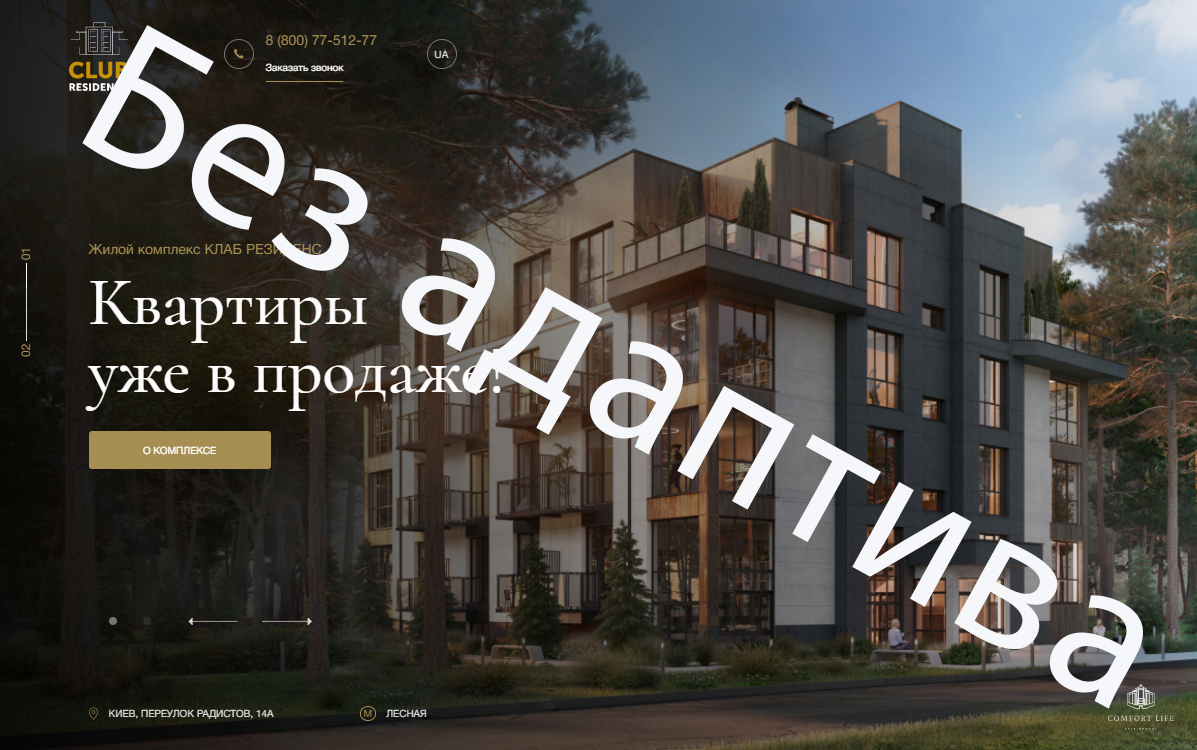
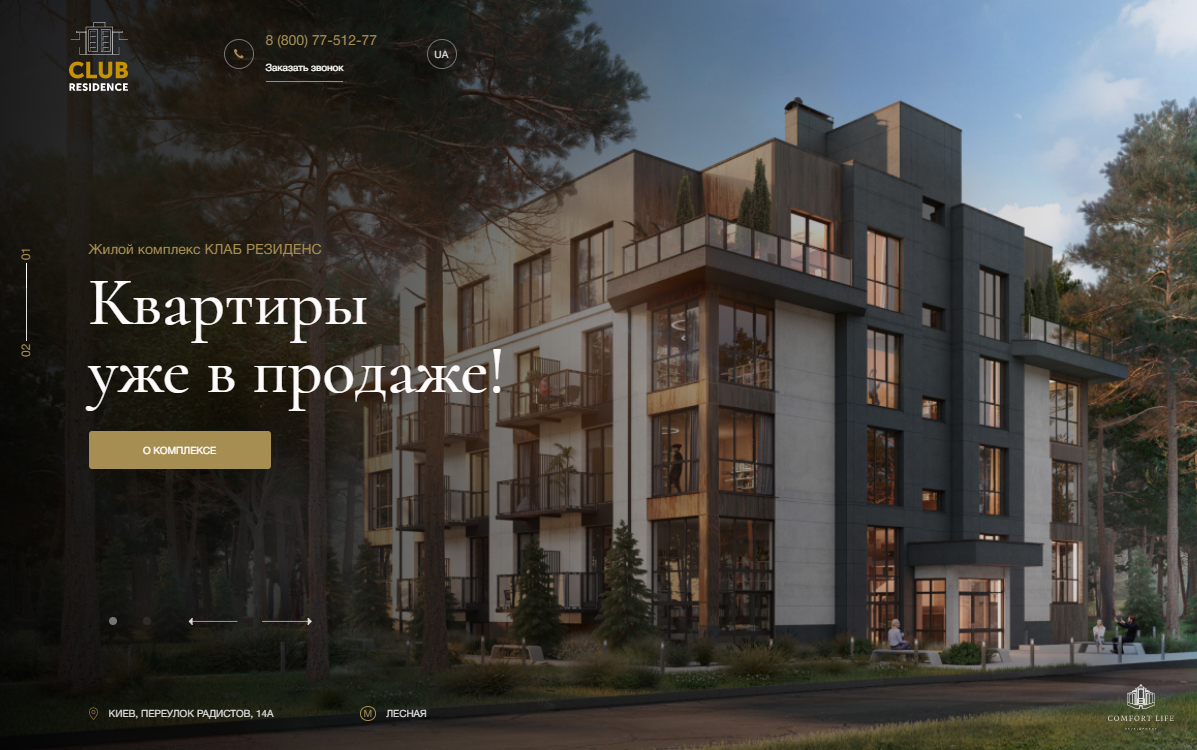
cahnge label  without adaptive

Changed region(s): [[0.3091, 0.3067, 0.9582, 0.9507], [0.0618, 0.0307, 0.3091, 0.368]]

diff --git a/css/style.min.css b/css/style.min.css
@@ -1,1 +1,1 @@
-html{-webkit-box-sizing:border-box;box-sizing:border-box}*,*::before,*::after{-webkit-box-sizing:inherit;box-sizing:inherit}a{display:inline-block;text-decoration:none;color:inherit}ul,li{margin:0;padding:0;list-style:none}body{font-family:'Roboto', sans-serif;font-weight:400;font-size:14px;line-height:25px;color:#fff;max-height:0}p{-webkit-margin-before:0;margin-block-start:0;-webkit-margin-after:0;margin-block-end:0}*{margin:0;padding:0}.container{max-width:1170px;margin:0 auto;padding:0 15px}.height__bg{height:calc(100vh - 101px)}.wrapper__bg-b{background:#45484d;background:-o-linear-gradient(315deg, #45484d 0%, #000 100%);background:linear-gradient(135deg, #45484d 0%, #000 100%);filter:progid:DXImageTransform.Microsoft.gradient( startColorstr='#45484d', endColorstr='#000000',GradientType=1 )}.wrapper__bg-wbw{min-height:580px;background:#fff;background:-webkit-gradient(linear, left top, left bottom, from(#fff), color-stop(30%, #eee), color-stop(60%, #eee), to(#fff));background:-o-linear-gradient(top, #fff 0%, #eee 30%, #eee 60%, #fff 100%);background:linear-gradient(to bottom, #fff 0%, #eee 30%, #eee 60%, #fff 100%);filter:progid:DXImageTransform.Microsoft.gradient( startColorstr='#ffffff', endColorstr='#ffffff',GradientType=0 )}.header__top{display:-webkit-box;display:-ms-flexbox;display:flex;-webkit-box-pack:justify;-ms-flex-pack:justify;justify-content:space-between;-ms-flex-wrap:wrap;flex-wrap:wrap}.header__logo{margin-top:20px;margin-right:15px}.header__logo img{width:100px;height:14px}.menu{margin-top:10px;display:-webkit-box;display:-ms-flexbox;display:flex;height:50px;-webkit-box-pack:end;-ms-flex-pack:end;justify-content:flex-end}.menu a{font-size:16px;font-weight:300;line-height:50px;font-weight:300;color:#fff;z-index:2;position:relative}.menu a:hover::before{width:100%;opacity:1}.menu a::before{content:'';position:absolute;height:2px;background-color:gray;opacity:0;width:0;-webkit-transition:all .5s;-o-transition:all .5s;transition:all .5s;bottom:0;left:0}.menu a+a{margin-left:15px}.btn-menu{display:none}.header__inner{text-align:center;color:#fff}.header__title{margin-top:240px;font-size:60px;line-height:60px;font-weight:800}.header__text{margin:0 auto;margin-top:90px;font-size:50px;line-height:45px}.header__text span{display:block}@-webkit-keyframes white-line{from{height:800px;top:-800px}0%{height:800px;top:-800px}100%{height:800px;top:-800px}to{height:200px;top:-200px}}@keyframes white-line{from{height:800px;top:-800px}0%{height:800px;top:-800px}100%{height:800px;top:-800px}to{height:200px;top:-200px}}@-webkit-keyframes width-anim{from{width:0}0%{width:0}100%{width:100%}to{width:100%}}@keyframes width-anim{from{width:0}0%{width:0}100%{width:100%}to{width:100%}}.skills{height:0}.white-line-img{position:relative}.white-line-img::before{content:"";position:absolute;background-image:url(../images/White-line-big.png);background-repeat:repeat-x;top:-200px;left:0;z-index:1;width:100%;height:200px;-webkit-animation:white-line 3s;animation:white-line 3s}.white-line-img::after{content:"";position:absolute;background-image:url(../images/White-line-mirror.png);background-repeat:repeat-x;bottom:-300px;left:0;z-index:1;width:100%;height:300px}.summary{padding:10px 0;display:-webkit-box;display:-ms-flexbox;display:flex;-webkit-box-pack:center;-ms-flex-pack:center;justify-content:center;font-size:24px;line-height:80px;-webkit-transition:all 0.5s;-o-transition:all 0.5s;transition:all 0.5s;position:absolute;top:0;left:0;right:0;z-index:1}.summary a+a{margin-left:30px}.btn-summary{text-align:center;position:relative;display:block;overflow:hidden;width:100%;height:80px;max-width:250px;text-transform:uppercase;border:1px solid currentColor}.btn-summary{-webkit-box-shadow:0px 0px 10px 0px rgba(0,0,0,0.75);box-shadow:0px 0px 10px 0px rgba(0,0,0,0.75);color:#000}.btn-summary span{position:absolute;display:block;width:0;height:0;border-radius:50%;background-color:#000;-webkit-transition:width 0.4s ease-in-out, height 0.4s ease-in-out;-o-transition:width 0.4s ease-in-out, height 0.4s ease-in-out;transition:width 0.4s ease-in-out, height 0.4s ease-in-out;-webkit-transform:translate(-50%, -50%);-ms-transform:translate(-50%, -50%);transform:translate(-50%, -50%);z-index:-1}.btn-summary:hover{color:#fff}.btn-summary:hover span{width:225%;height:562.5px}.btn-summaryr:active{background-color:#000}.tec__inner{padding-top:160px}.tec__item{display:-webkit-box !important;display:-ms-flexbox !important;display:flex !important;-webkit-box-pack:justify;-ms-flex-pack:justify;justify-content:space-between;max-width:880px;margin-bottom:20px;min-width:200px}.tec__tags{-ms-flex-item-align:center;align-self:center;display:-webkit-box;display:-ms-flexbox;display:flex;font-size:24px;text-align:center;line-height:100px;margin-right:20px}.tec__tags .tec__tag{width:100px;height:100px;border-radius:15px}.tec__tags .tec__tag:first-child{margin-right:-15px}.tec__tags .tec__tag:last-child{margin-top:20px;margin-left:-15px}.tec__tags-hc .tec__tag-h{background:rgba(241,101,41,0.8);background:-o-linear-gradient(45deg, rgba(241,101,41,0.8) 0%, rgba(241,101,41,0.8) 62%, rgba(229,229,229,0.8) 100%);background:linear-gradient(45deg, rgba(241,101,41,0.8) 0%, rgba(241,101,41,0.8) 62%, rgba(229,229,229,0.8) 100%);filter:progid:DXImageTransform.Microsoft.gradient( startColorstr='#f16529', endColorstr='#e5e5e5',GradientType=1 )}.tec__tags-hc .tec__tag-c{background:rgba(64,154,214,0.8);background:-o-linear-gradient(45deg, rgba(64,154,214,0.8) 0%, rgba(64,154,214,0.8) 62%, #e5e5e5 100%);background:linear-gradient(45deg, rgba(64,154,214,0.8) 0%, rgba(64,154,214,0.8) 62%, #e5e5e5 100%);filter:progid:DXImageTransform.Microsoft.gradient( startColorstr='#409ad6', endColorstr='#e5e5e5',GradientType=1 )}.tec__tags-sg .tec__tag-s{background:rgba(205,102,154,0.8);background:-o-linear-gradient(45deg, rgba(205,102,154,0.8) 0%, rgba(205,102,154,0.8) 62%, rgba(229,229,229,0.8) 100%);background:linear-gradient(45deg, rgba(205,102,154,0.8) 0%, rgba(205,102,154,0.8) 62%, rgba(229,229,229,0.8) 100%);filter:progid:DXImageTransform.Microsoft.gradient( startColorstr='#cd669a', endColorstr='#e5e5e5',GradientType=1 )}.tec__tags-sg .tec__tag-g{background:rgba(235,74,75,0.8);background:-o-linear-gradient(45deg, rgba(235,74,75,0.8) 0%, rgba(235,74,75,0.8) 62%, rgba(229,229,229,0.8) 100%);background:linear-gradient(45deg, rgba(235,74,75,0.8) 0%, rgba(235,74,75,0.8) 62%, rgba(229,229,229,0.8) 100%);filter:progid:DXImageTransform.Microsoft.gradient( startColorstr='#eb4a4b', endColorstr='#e5e5e5',GradientType=1 )}.tec__tags-jq .tec__tag-j{background:rgba(255,218,62,0.8);background:-o-linear-gradient(45deg, rgba(255,218,62,0.8) 0%, rgba(255,218,62,0.8) 62%, rgba(229,229,229,0.8) 100%);background:linear-gradient(45deg, rgba(255,218,62,0.8) 0%, rgba(255,218,62,0.8) 62%, rgba(229,229,229,0.8) 100%);filter:progid:DXImageTransform.Microsoft.gradient( startColorstr='#ffda3e', endColorstr='#e5e5e5',GradientType=1 )}.tec__tags-jq .tec__tag-q{background:rgba(17,105,174,0.8);background:-o-linear-gradient(45deg, rgba(17,105,174,0.8) 0%, rgba(17,105,174,0.8) 62%, rgba(229,229,229,0.8) 100%);background:linear-gradient(45deg, rgba(17,105,174,0.8) 0%, rgba(17,105,174,0.8) 62%, rgba(229,229,229,0.8) 100%);filter:progid:DXImageTransform.Microsoft.gradient( startColorstr='#1169ae', endColorstr='#e5e5e5',GradientType=1 )}.tec__text{-ms-flex-item-align:center;align-self:center;background-color:#fff;border-radius:15px;color:#000;padding:20px;font-size:17px}.skills__inner{position:relative;min-height:190px}.skills__inner::after{content:"";background-image:url(../images/code_brain.png);background-repeat:no-repeat;background-size:contain;max-width:164px;width:100%;height:195px;position:absolute;top:-5px;right:40px;opacity:.8}.skills__item{margin-left:auto;margin-right:260px;max-width:600px;color:#000;font-size:18px;text-transform:uppercase;margin-bottom:20px}.skills__line{width:100%;height:17px;background-color:#fff;border-radius:15px;border:1px solid #000;text-align:right}.skills__line-htmlcss,.skills__line-sassgulp,.skills__line-jsjq{border-radius:15px;position:relative;border:2px solid #fff;height:15px;-webkit-animation:width-anim 5s;animation:width-anim 5s}.skills__line-htmlcss{max-width:84%;background:rgba(241,101,41,0.8);background:-o-linear-gradient(45deg, rgba(241,101,41,0.8) 0%, rgba(64,154,214,0.8) 100%);background:linear-gradient(45deg, rgba(241,101,41,0.8) 0%, rgba(64,154,214,0.8) 100%);filter:progid:DXImageTransform.Microsoft.gradient( startColorstr='#f16529', endColorstr='#409ad6',GradientType=1 )}.skills__line-sassgulp{max-width:68%;background:#cd669a;background:-o-linear-gradient(45deg, #cd669a 0%, #eb4a4b 100%);background:linear-gradient(45deg, #cd669a 0%, #eb4a4b 100%);filter:progid:DXImageTransform.Microsoft.gradient( startColorstr='#cd669a', endColorstr='#eb4a4b',GradientType=1 )}.skills__line-jsjq{max-width:36%;background:#ffda3e;background:-o-linear-gradient(45deg, #ffda3e 0%, #1169ae 100%);background:linear-gradient(45deg, #ffda3e 0%, #1169ae 100%);filter:progid:DXImageTransform.Microsoft.gradient( startColorstr='#ffda3e', endColorstr='#1169ae',GradientType=1 )}.wrapper-portfolio{padding-top:350px}.portfolio__title{text-align:center;font-size:40px;line-height:45px;color:#fff;font-weight:700;padding-top:100px;padding-bottom:40px}.portfolio__inner{display:-webkit-box;display:-ms-flexbox;display:flex;-ms-flex-wrap:wrap;flex-wrap:wrap;-webkit-box-pack:center;-ms-flex-pack:center;justify-content:center;padding-bottom:250px}.portfolio__item{padding:10px;-webkit-transition:all .5s;-o-transition:all .5s;transition:all .5s}.portfolio__item:hover{-webkit-transform:scale(1.1);-ms-transform:scale(1.1);transform:scale(1.1)}.portfolio__item-link{border:1px solid #000;border-radius:5px;padding:20px 20px 12px;background-color:#fff}.portfolio__item-link img{-webkit-box-shadow:0px 0px 14px 3px rgba(0,0,0,0.75);box-shadow:0px 0px 14px 3px rgba(0,0,0,0.75);width:300px;height:200px}.footer{position:relative}.footer::after{content:"";position:absolute;background-image:url(../images/White-line-big.png);background-repeat:repeat-x;top:-200px;left:0;z-index:1;width:100%;height:200px}.wrapper__bg-wb{background:#fff;background:-webkit-gradient(linear, left top, left bottom, from(#fff), to(#b4b4b4));background:-o-linear-gradient(top, #fff 0%, #b4b4b4 100%);background:linear-gradient(to bottom, #fff 0%, #b4b4b4 100%);filter:progid:DXImageTransform.Microsoft.gradient( startColorstr='#ffffff', endColorstr='#000000',GradientType=0 )}.links__inner{display:-webkit-box;display:-ms-flexbox;display:flex;-webkit-box-pack:justify;-ms-flex-pack:justify;justify-content:space-between;-webkit-box-align:end;-ms-flex-align:end;align-items:flex-end;height:120px}.wrap__link-pm{text-align:right}.wrap__link-pm a{display:block;font-size:18px;margin-top:5px;margin-bottom:5px;-webkit-transition:all .3s;-o-transition:all .3s;transition:all .3s;color:#000}.wrap__link-pm a:hover{color:#fff;-webkit-transform:scale(1.1);-ms-transform:scale(1.1);transform:scale(1.1)}.link-social{width:50px;height:50px;background-size:cover;background-position:center;background-repeat:no-repeat;border:1px solid #fff;-webkit-transition:all .3s;-o-transition:all .3s;transition:all .3s;position:relative}.link-social+.link-social{margin-left:15px}.link-social:hover{-webkit-transform:scale(1.1);-ms-transform:scale(1.1);transform:scale(1.1)}.link-social:hover span{background-color:rgba(0,0,0,0)}.link-social span{position:absolute;top:0;left:0;background-color:rgba(0,0,0,0.4);width:50px;height:50px}.link-instagram{border-radius:10px}.link-instagram span{border-radius:10px}.link-telegram{border-radius:50%}.link-telegram span{border-radius:50%}.link-facebook{border-radius:5px}.link-facebook span{border-radius:5px}.details-rezume__wrapper{font-size:18px}.details-rezume__skills,.details-rezume__courses,.details-rezume__education,.details-rezume__languages,.details-rezume__Information{font-weight:700;text-transform:uppercase;text-align:center;margin-bottom:15px;background-color:#fff;color:#000;padding:10px;border-radius:15px}.details-rezume__skills li,.details-rezume__courses li,.details-rezume__education li,.details-rezume__languages li,.details-rezume__Information li{text-transform:none;font-weight:300;text-align:left;position:relative;padding-left:8px;line-height:25px}.details-rezume__skills li::before,.details-rezume__courses li::before,.details-rezume__education li::before,.details-rezume__languages li::before,.details-rezume__Information li::before{position:absolute;content:"";top:12px;left:0;width:4px;height:2px;background-color:#000}.details-rezume__skills li:first-child,.details-rezume__courses li:first-child,.details-rezume__education li:first-child,.details-rezume__languages li:first-child,.details-rezume__Information li:first-child{margin-top:3px}.details-rezume__title{text-align:center;text-transform:uppercase;font-weight:700;margin:15px 0}.details-rezume__Information span{text-transform:none;font-weight:300;padding:10px;display:block;text-align:left}.mfp-close-btn-in .mfp-close{color:#fff}.mfp-close{font-size:35px}@media (max-width: 1200px){.height__bg{height:calc(100vh)}}@media (max-width: 600px){.header__title{margin-top:180px;font-size:50px;line-height:50px}.header__text{margin-top:75px;font-size:35px;line-height:40px}.summary{-webkit-box-orient:vertical;-webkit-box-direction:normal;-ms-flex-direction:column;flex-direction:column}.summary a+a{margin-left:0}.btn-summary{margin-top:10px;margin-bottom:10px;-ms-flex-item-align:center;align-self:center}.tec__inner{padding-top:260px}.tec__item{-webkit-box-orient:vertical;-webkit-box-direction:normal;-ms-flex-direction:column;flex-direction:column}.tec__text{margin-top:20px}.details-rezume__wrapper{font-size:3vw}}@media (max-width: 520px){.menu{margin-top:0;padding-top:10px;display:none;position:absolute;background-color:rgba(0,0,0,0.8);height:219px;width:100%;top:0;left:0;right:0}.menu a{display:block;text-align:center}.menu a+a{margin-left:0}.btn-menu{display:block;height:26px;width:30px;cursor:pointer;position:absolute;top:20px;right:10px;z-index:10}.btn-menu::before{top:0}.btn-menu::after{bottom:0}.btn-menu::before,.btn-menu::after{content:"";position:absolute;-webkit-transition:all 0.3s cubic-bezier(0.68, -0.55, 0.27, 1.55);-o-transition:all 0.3s cubic-bezier(0.68, -0.55, 0.27, 1.55);transition:all 0.3s cubic-bezier(0.68, -0.55, 0.27, 1.55);right:0;height:2px;width:30px;background-color:#fff}.btn-menu span{height:2px;width:30px;background-color:#fff;position:absolute;top:calc(50% - 1px)}.btn-menu.active::before{top:12px;-webkit-transform:rotate(45deg);-ms-transform:rotate(45deg);transform:rotate(45deg)}.btn-menu.active span{-webkit-transform:scale(0);-ms-transform:scale(0);transform:scale(0)}.btn-menu.active::after{bottom:12px;-webkit-transform:rotate(-45deg);-ms-transform:rotate(-45deg);transform:rotate(-45deg)}.link-social+.link-social{margin-left:10px}.skills__item{margin-right:0}.skills__inner::after{right:15px;opacity:0.1}}@media (max-width: 420px){.header__title{font-size:43px}.header__text{font-size:28px;line-height:40px}.links__inner{-webkit-box-orient:vertical;-webkit-box-direction:normal;-ms-flex-direction:column;flex-direction:column;-webkit-box-align:center;-ms-flex-align:center;align-items:center;height:130px}.portfolio__item-link img{width:230px;height:160px}}@media (max-width: 320px){.header__title{font-size:30px}.header__text{font-size:23px;line-height:39px;margin-top:60px}}@media (min-width: 521px){.menu{display:-webkit-box !important;display:-ms-flexbox !important;display:flex !important}}
+html{-webkit-box-sizing:border-box;box-sizing:border-box}*,*::before,*::after{-webkit-box-sizing:inherit;box-sizing:inherit}a{display:inline-block;text-decoration:none;color:inherit}ul,li{margin:0;padding:0;list-style:none}body{font-family:'Roboto', sans-serif;font-weight:400;font-size:14px;line-height:25px;color:#fff;max-height:0}p{-webkit-margin-before:0;margin-block-start:0;-webkit-margin-after:0;margin-block-end:0}*{margin:0;padding:0}.container{max-width:1170px;margin:0 auto;padding:0 15px}.height__bg{height:calc(100vh - 101px)}.wrapper__bg-b{background:#45484d;background:-o-linear-gradient(315deg, #45484d 0%, #000 100%);background:linear-gradient(135deg, #45484d 0%, #000 100%);filter:progid:DXImageTransform.Microsoft.gradient( startColorstr='#45484d', endColorstr='#000000',GradientType=1 )}.wrapper__bg-wbw{min-height:580px;background:#fff;background:-webkit-gradient(linear, left top, left bottom, from(#fff), color-stop(30%, #eee), color-stop(60%, #eee), to(#fff));background:-o-linear-gradient(top, #fff 0%, #eee 30%, #eee 60%, #fff 100%);background:linear-gradient(to bottom, #fff 0%, #eee 30%, #eee 60%, #fff 100%);filter:progid:DXImageTransform.Microsoft.gradient( startColorstr='#ffffff', endColorstr='#ffffff',GradientType=0 )}.header__top{display:-webkit-box;display:-ms-flexbox;display:flex;-webkit-box-pack:justify;-ms-flex-pack:justify;justify-content:space-between;-ms-flex-wrap:wrap;flex-wrap:wrap}.header__logo{margin-top:20px;margin-right:15px}.header__logo img{width:100px;height:14px}.menu{margin-top:10px;display:-webkit-box;display:-ms-flexbox;display:flex;height:50px;-webkit-box-pack:end;-ms-flex-pack:end;justify-content:flex-end}.menu a{font-size:16px;font-weight:300;line-height:50px;font-weight:300;color:#fff;z-index:2;position:relative}.menu a:hover::before{width:100%;opacity:1}.menu a::before{content:"";position:absolute;height:2px;background-color:gray;opacity:0;width:0;-webkit-transition:all 0.5s;-o-transition:all 0.5s;transition:all 0.5s;bottom:0;left:0}.menu a+a{margin-left:15px}.btn-menu{display:none}.header__inner{text-align:center;color:#fff}.header__title{margin-top:240px;font-size:60px;line-height:60px;font-weight:800}.header__text{margin:0 auto;margin-top:90px;font-size:50px;line-height:45px}.header__text span{display:block}@-webkit-keyframes white-line{from{height:800px;top:-800px}0%{height:800px;top:-800px}100%{height:800px;top:-800px}to{height:200px;top:-200px}}@keyframes white-line{from{height:800px;top:-800px}0%{height:800px;top:-800px}100%{height:800px;top:-800px}to{height:200px;top:-200px}}@-webkit-keyframes width-anim{from{width:0}0%{width:0}100%{width:100%}to{width:100%}}@keyframes width-anim{from{width:0}0%{width:0}100%{width:100%}to{width:100%}}.skills{height:0}.white-line-img{position:relative}.white-line-img::before{content:"";position:absolute;background-image:url(../images/White-line-big.png);background-repeat:repeat-x;top:-200px;left:0;z-index:1;width:100%;height:200px;-webkit-animation:white-line 3s;animation:white-line 3s}.white-line-img::after{content:"";position:absolute;background-image:url(../images/White-line-mirror.png);background-repeat:repeat-x;bottom:-300px;left:0;z-index:1;width:100%;height:300px}.summary{padding:10px 0;display:-webkit-box;display:-ms-flexbox;display:flex;-webkit-box-pack:center;-ms-flex-pack:center;justify-content:center;font-size:24px;line-height:80px;-webkit-transition:all 0.5s;-o-transition:all 0.5s;transition:all 0.5s;position:absolute;top:0;left:0;right:0;z-index:1}.summary a+a{margin-left:30px}.btn-summary{text-align:center;position:relative;display:block;overflow:hidden;width:100%;height:80px;max-width:250px;text-transform:uppercase;border:1px solid currentColor}.btn-summary{-webkit-box-shadow:0px 0px 10px 0px rgba(0,0,0,0.75);box-shadow:0px 0px 10px 0px rgba(0,0,0,0.75);color:#000}.btn-summary span{position:absolute;display:block;width:0;height:0;border-radius:50%;background-color:#000;-webkit-transition:width 0.4s ease-in-out, height 0.4s ease-in-out;-o-transition:width 0.4s ease-in-out, height 0.4s ease-in-out;transition:width 0.4s ease-in-out, height 0.4s ease-in-out;-webkit-transform:translate(-50%, -50%);-ms-transform:translate(-50%, -50%);transform:translate(-50%, -50%);z-index:-1}.btn-summary:hover{color:#fff}.btn-summary:hover span{width:225%;height:562.5px}.btn-summaryr:active{background-color:#000}.tec__inner{padding-top:160px}.tec__item{display:-webkit-box !important;display:-ms-flexbox !important;display:flex !important;-webkit-box-pack:justify;-ms-flex-pack:justify;justify-content:space-between;max-width:880px;margin-bottom:20px;min-width:200px}.tec__tags{-ms-flex-item-align:center;align-self:center;display:-webkit-box;display:-ms-flexbox;display:flex;font-size:24px;text-align:center;line-height:100px;margin-right:20px}.tec__tags .tec__tag{width:100px;height:100px;border-radius:15px}.tec__tags .tec__tag:first-child{margin-right:-15px}.tec__tags .tec__tag:last-child{margin-top:20px;margin-left:-15px}.tec__tags-hc .tec__tag-h{background:rgba(241,101,41,0.8);background:-o-linear-gradient(45deg, rgba(241,101,41,0.8) 0%, rgba(241,101,41,0.8) 62%, rgba(229,229,229,0.8) 100%);background:linear-gradient(45deg, rgba(241,101,41,0.8) 0%, rgba(241,101,41,0.8) 62%, rgba(229,229,229,0.8) 100%);filter:progid:DXImageTransform.Microsoft.gradient( startColorstr='#f16529', endColorstr='#e5e5e5',GradientType=1 )}.tec__tags-hc .tec__tag-c{background:rgba(64,154,214,0.8);background:-o-linear-gradient(45deg, rgba(64,154,214,0.8) 0%, rgba(64,154,214,0.8) 62%, #e5e5e5 100%);background:linear-gradient(45deg, rgba(64,154,214,0.8) 0%, rgba(64,154,214,0.8) 62%, #e5e5e5 100%);filter:progid:DXImageTransform.Microsoft.gradient( startColorstr='#409ad6', endColorstr='#e5e5e5',GradientType=1 )}.tec__tags-sg .tec__tag-s{background:rgba(205,102,154,0.8);background:-o-linear-gradient(45deg, rgba(205,102,154,0.8) 0%, rgba(205,102,154,0.8) 62%, rgba(229,229,229,0.8) 100%);background:linear-gradient(45deg, rgba(205,102,154,0.8) 0%, rgba(205,102,154,0.8) 62%, rgba(229,229,229,0.8) 100%);filter:progid:DXImageTransform.Microsoft.gradient( startColorstr='#cd669a', endColorstr='#e5e5e5',GradientType=1 )}.tec__tags-sg .tec__tag-g{background:rgba(235,74,75,0.8);background:-o-linear-gradient(45deg, rgba(235,74,75,0.8) 0%, rgba(235,74,75,0.8) 62%, rgba(229,229,229,0.8) 100%);background:linear-gradient(45deg, rgba(235,74,75,0.8) 0%, rgba(235,74,75,0.8) 62%, rgba(229,229,229,0.8) 100%);filter:progid:DXImageTransform.Microsoft.gradient( startColorstr='#eb4a4b', endColorstr='#e5e5e5',GradientType=1 )}.tec__tags-jq .tec__tag-j{background:rgba(255,218,62,0.8);background:-o-linear-gradient(45deg, rgba(255,218,62,0.8) 0%, rgba(255,218,62,0.8) 62%, rgba(229,229,229,0.8) 100%);background:linear-gradient(45deg, rgba(255,218,62,0.8) 0%, rgba(255,218,62,0.8) 62%, rgba(229,229,229,0.8) 100%);filter:progid:DXImageTransform.Microsoft.gradient( startColorstr='#ffda3e', endColorstr='#e5e5e5',GradientType=1 )}.tec__tags-jq .tec__tag-q{background:rgba(17,105,174,0.8);background:-o-linear-gradient(45deg, rgba(17,105,174,0.8) 0%, rgba(17,105,174,0.8) 62%, rgba(229,229,229,0.8) 100%);background:linear-gradient(45deg, rgba(17,105,174,0.8) 0%, rgba(17,105,174,0.8) 62%, rgba(229,229,229,0.8) 100%);filter:progid:DXImageTransform.Microsoft.gradient( startColorstr='#1169ae', endColorstr='#e5e5e5',GradientType=1 )}.tec__text{-ms-flex-item-align:center;align-self:center;background-color:#fff;border-radius:15px;color:#000;padding:20px;font-size:17px}.skills__inner{position:relative;min-height:190px}.skills__inner::after{content:"";background-image:url(../images/code_brain.png);background-repeat:no-repeat;background-size:contain;max-width:164px;width:100%;height:195px;position:absolute;top:-5px;right:40px;opacity:0.8}.skills__item{margin-left:auto;margin-right:260px;max-width:600px;color:#000;font-size:18px;text-transform:uppercase;margin-bottom:20px}.skills__line{width:100%;height:17px;background-color:#fff;border-radius:15px;border:1px solid #000;text-align:right}.skills__line-htmlcss,.skills__line-sassgulp,.skills__line-jsjq{border-radius:15px;position:relative;border:2px solid #fff;height:15px;-webkit-animation:width-anim 5s;animation:width-anim 5s}.skills__line-htmlcss{max-width:84%;background:rgba(241,101,41,0.8);background:-o-linear-gradient(45deg, rgba(241,101,41,0.8) 0%, rgba(64,154,214,0.8) 100%);background:linear-gradient(45deg, rgba(241,101,41,0.8) 0%, rgba(64,154,214,0.8) 100%);filter:progid:DXImageTransform.Microsoft.gradient( startColorstr='#f16529', endColorstr='#409ad6',GradientType=1 )}.skills__line-sassgulp{max-width:68%;background:#cd669a;background:-o-linear-gradient(45deg, #cd669a 0%, #eb4a4b 100%);background:linear-gradient(45deg, #cd669a 0%, #eb4a4b 100%);filter:progid:DXImageTransform.Microsoft.gradient( startColorstr='#cd669a', endColorstr='#eb4a4b',GradientType=1 )}.skills__line-jsjq{max-width:36%;background:#ffda3e;background:-o-linear-gradient(45deg, #ffda3e 0%, #1169ae 100%);background:linear-gradient(45deg, #ffda3e 0%, #1169ae 100%);filter:progid:DXImageTransform.Microsoft.gradient( startColorstr='#ffda3e', endColorstr='#1169ae',GradientType=1 )}.wrapper-portfolio{padding-top:350px}.portfolio__title{text-align:center;font-size:40px;line-height:45px;color:#fff;font-weight:700;padding-top:100px;padding-bottom:40px}.portfolio__inner{display:-webkit-box;display:-ms-flexbox;display:flex;-ms-flex-wrap:wrap;flex-wrap:wrap;-webkit-box-pack:center;-ms-flex-pack:center;justify-content:center;padding-bottom:250px;min-height:400px}.portfolio__item{padding:10px;-webkit-transition:all 0.5s;-o-transition:all 0.5s;transition:all 0.5s}.portfolio__item:hover{-webkit-transform:scale(1.1);-ms-transform:scale(1.1);transform:scale(1.1)}.portfolio__item.without-adaptive .portfolio__item-link{position:relative}.portfolio__item.without-adaptive .portfolio__item-link span{position:absolute;border-radius:3px;border:1px solid red;font-size:18px;font-weight:700;top:30px;right:30px;text-transform:uppercase;padding:5px 15px;color:red;background-color:#fff;opacity:0.5}.portfolio__item-link{border:1px solid #000;border-radius:5px;padding:20px 20px 12px;background-color:#fff}.portfolio__item-link img{-webkit-box-shadow:0px 0px 14px 3px rgba(0,0,0,0.75);box-shadow:0px 0px 14px 3px rgba(0,0,0,0.75);width:300px;height:200px}.footer{position:relative}.footer::after{content:"";position:absolute;background-image:url(../images/White-line-big.png);background-repeat:repeat-x;top:-200px;left:0;z-index:1;width:100%;height:200px}.wrapper__bg-wb{background:#fff;background:-webkit-gradient(linear, left top, left bottom, from(#fff), to(#b4b4b4));background:-o-linear-gradient(top, #fff 0%, #b4b4b4 100%);background:linear-gradient(to bottom, #fff 0%, #b4b4b4 100%);filter:progid:DXImageTransform.Microsoft.gradient( startColorstr='#ffffff', endColorstr='#000000',GradientType=0 )}.links__inner{display:-webkit-box;display:-ms-flexbox;display:flex;-webkit-box-pack:justify;-ms-flex-pack:justify;justify-content:space-between;-webkit-box-align:end;-ms-flex-align:end;align-items:flex-end;height:120px}.wrap__link-pm{text-align:right}.wrap__link-pm a{display:block;font-size:18px;margin-top:5px;margin-bottom:5px;-webkit-transition:all 0.3s;-o-transition:all 0.3s;transition:all 0.3s;color:#000}.wrap__link-pm a:hover{color:#fff;-webkit-transform:scale(1.1);-ms-transform:scale(1.1);transform:scale(1.1)}.link-social{width:50px;height:50px;background-size:cover;background-position:center;background-repeat:no-repeat;border:1px solid #fff;-webkit-transition:all 0.3s;-o-transition:all 0.3s;transition:all 0.3s;position:relative}.link-social+.link-social{margin-left:15px}.link-social:hover{-webkit-transform:scale(1.1);-ms-transform:scale(1.1);transform:scale(1.1)}.link-social:hover span{background-color:rgba(0,0,0,0)}.link-social span{position:absolute;top:0;left:0;background-color:rgba(0,0,0,0.4);width:50px;height:50px}.link-instagram{border-radius:10px}.link-instagram span{border-radius:10px}.link-telegram{border-radius:50%}.link-telegram span{border-radius:50%}.link-facebook{border-radius:5px}.link-facebook span{border-radius:5px}.details-rezume__wrapper{font-size:18px}.details-rezume__skills,.details-rezume__courses,.details-rezume__education,.details-rezume__languages,.details-rezume__Information{font-weight:700;text-transform:uppercase;text-align:center;margin-bottom:15px;background-color:#fff;color:#000;padding:10px;border-radius:15px}.details-rezume__skills li,.details-rezume__courses li,.details-rezume__education li,.details-rezume__languages li,.details-rezume__Information li{text-transform:none;font-weight:300;text-align:left;position:relative;padding-left:8px;line-height:25px}.details-rezume__skills li::before,.details-rezume__courses li::before,.details-rezume__education li::before,.details-rezume__languages li::before,.details-rezume__Information li::before{position:absolute;content:"";top:12px;left:0;width:4px;height:2px;background-color:#000}.details-rezume__skills li:first-child,.details-rezume__courses li:first-child,.details-rezume__education li:first-child,.details-rezume__languages li:first-child,.details-rezume__Information li:first-child{margin-top:3px}.details-rezume__title{text-align:center;text-transform:uppercase;font-weight:700;margin:15px 0}.details-rezume__Information span{text-transform:none;font-weight:300;padding:10px;display:block;text-align:left}.mfp-close-btn-in .mfp-close{color:#fff}.mfp-close{font-size:35px}@media (max-width: 1200px){.height__bg{height:calc(100vh)}}@media (max-width: 600px){.header__title{margin-top:180px;font-size:50px;line-height:50px}.header__text{margin-top:75px;font-size:35px;line-height:40px}.summary{-webkit-box-orient:vertical;-webkit-box-direction:normal;-ms-flex-direction:column;flex-direction:column}.summary a+a{margin-left:0}.btn-summary{margin-top:10px;margin-bottom:10px;-ms-flex-item-align:center;align-self:center}.tec__inner{padding-top:260px}.tec__item{-webkit-box-orient:vertical;-webkit-box-direction:normal;-ms-flex-direction:column;flex-direction:column}.tec__text{margin-top:20px}.details-rezume__wrapper{font-size:3vw}}@media (max-width: 520px){.menu{margin-top:0;padding-top:10px;display:none;position:absolute;background-color:rgba(0,0,0,0.8);height:219px;width:100%;top:0;left:0;right:0}.menu a{display:block;text-align:center}.menu a+a{margin-left:0}.btn-menu{display:block;height:26px;width:30px;cursor:pointer;position:absolute;top:20px;right:10px;z-index:10}.btn-menu::before{top:0}.btn-menu::after{bottom:0}.btn-menu::before,.btn-menu::after{content:"";position:absolute;-webkit-transition:all 0.3s cubic-bezier(0.68, -0.55, 0.27, 1.55);-o-transition:all 0.3s cubic-bezier(0.68, -0.55, 0.27, 1.55);transition:all 0.3s cubic-bezier(0.68, -0.55, 0.27, 1.55);right:0;height:2px;width:30px;background-color:#fff}.btn-menu span{height:2px;width:30px;background-color:#fff;position:absolute;top:calc(50% - 1px)}.btn-menu.active::before{top:12px;-webkit-transform:rotate(45deg);-ms-transform:rotate(45deg);transform:rotate(45deg)}.btn-menu.active span{-webkit-transform:scale(0);-ms-transform:scale(0);transform:scale(0)}.btn-menu.active::after{bottom:12px;-webkit-transform:rotate(-45deg);-ms-transform:rotate(-45deg);transform:rotate(-45deg)}.link-social+.link-social{margin-left:10px}.skills__item{margin-right:0}.skills__inner::after{right:15px;opacity:0.1}}@media (max-width: 420px){.header__title{font-size:43px}.header__text{font-size:28px;line-height:40px}.links__inner{-webkit-box-orient:vertical;-webkit-box-direction:normal;-ms-flex-direction:column;flex-direction:column;-webkit-box-align:center;-ms-flex-align:center;align-items:center;height:130px}.portfolio__item-link img{width:230px;height:160px}}@media (max-width: 320px){.header__title{font-size:30px}.header__text{font-size:23px;line-height:39px;margin-top:60px}}@media (min-width: 521px){.menu{display:-webkit-box !important;display:-ms-flexbox !important;display:flex !important}}

diff --git a/index.html b/index.html
@@ -148,8 +148,9 @@
             </a>
           </div>
 
-          <div class="portfolio__item">
+          <div class="portfolio__item without-adaptive">
             <a class="portfolio__item-link" href="sites/buld/buld.html">
+              <span>без адаптива</span>
               <img src="images/portfolio_item-5.jpg" alt="фото роботи">
             </a>
           </div>
